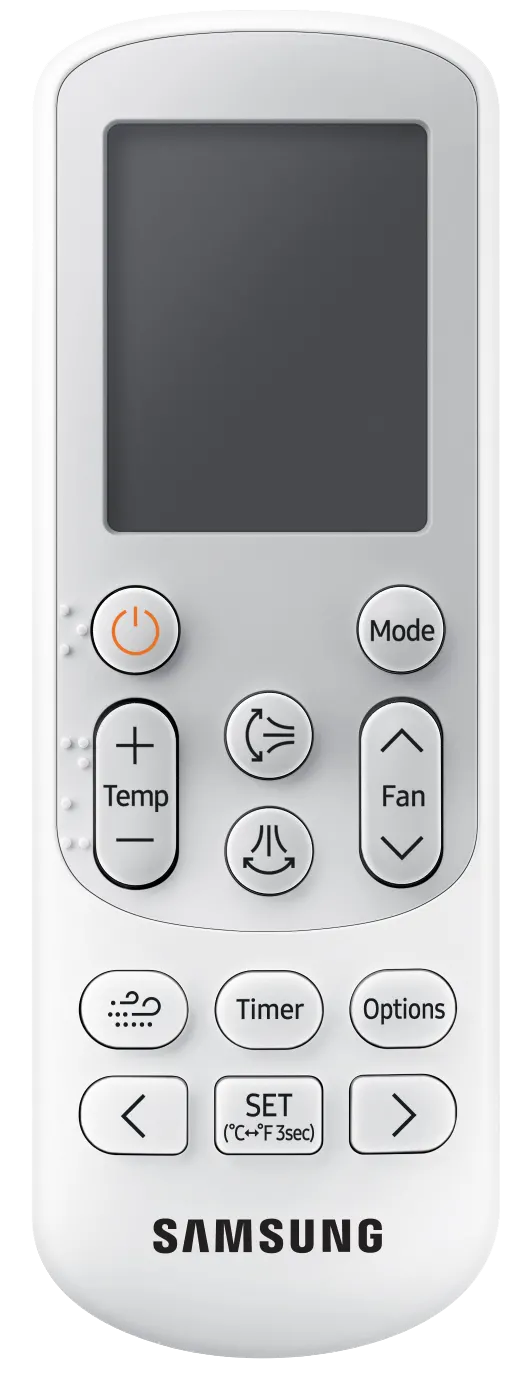
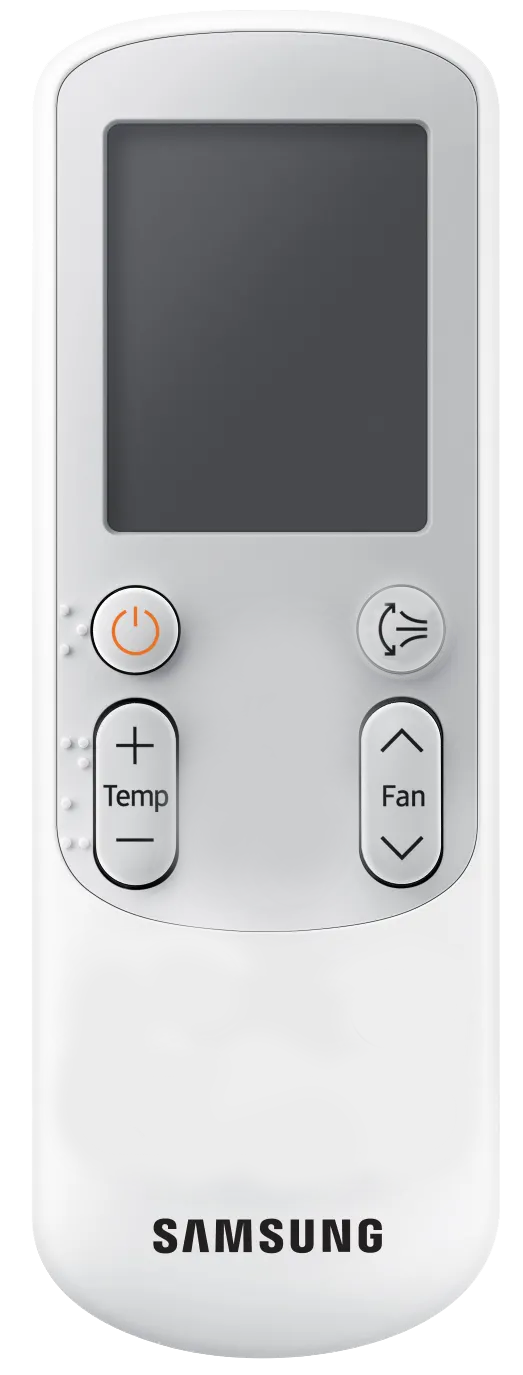
edit remote image

diff --git a/index.html b/index.html
@@ -40,6 +40,43 @@
             bottom: 0;
         }
 
+        .position-absolute {
+            position: absolute;
+        }
+
+        #btn-toggle-power {
+
+            left: 17%;
+            top: 42.5%;
+            height: 6.5%;
+            width: 18%;
+            border-radius: 25px;
+        }
+
+        #btn-decrease-temp {
+            left: 17%;
+            top: 58.5%;
+            height: 6.5%;
+            width: 18%;
+            border-radius: 25px;
+        }
+
+        #btn-increase-temp {
+            left: 17%;
+            top: 50.5%;
+            height: 6.5%;
+            width: 18%;
+            border-radius: 25px;
+        }
+
+        #btn-toggle-swing {
+            right: 15%;
+            top: 42.5%;
+            height: 6.5%;
+            width: 18%;
+            border-radius: 25px;
+        }
+
         .text-center {
             text-align: center;
         }
@@ -70,6 +107,11 @@
             margin-right: auto;
             margin-left: auto;
         }
+
+        .transparent {
+            background-color: transparent;
+            border: none
+        }
     </style>
 </head>
 
@@ -80,15 +122,16 @@
         <img class="w-100 mw-500 swing " id="swing" src="./assests/img/swing.png" alt="air-conditioner">
         <span class="font-7-led led-on-air-conditioner" id="temperature">17</span>
     </div>
-    <div class="text-center w-100 mw-500 my-auto">
-        <button id="btn-toggle-power">toggle power</button>
-        <button id="btn-toggle-swing">toggle swing</button>
-        <button id="btn-decrease-temp">decrease temp</button>
-        <button id="btn-increase-temp">increase temp</button>
-
+    <div class="text-center position-relative w-100 mw-200 my-auto">
+        <img class="w-100 mw-200 d-block" src="./assests/img/wireless-controller-copy-31319276.png"
+            alt="air-conditioner">
+        <button class="position-absolute transparent" id="btn-toggle-power"> </button>
+        <button class="position-absolute transparent" id="btn-toggle-swing"> </button>
+        <button class="position-absolute transparent" id="btn-decrease-temp"> </button>
+        <button class="position-absolute transparent" id="btn-increase-temp"> </button>
     </div>
     <!-- <div class="img-wrapper text-center w-100 mw-500">
-        <img class="w-100 mw-200" src="./assests/img/wireless-controller-copy-31319276.png" alt="air-conditioner">
+        
     </div> -->
 
 
